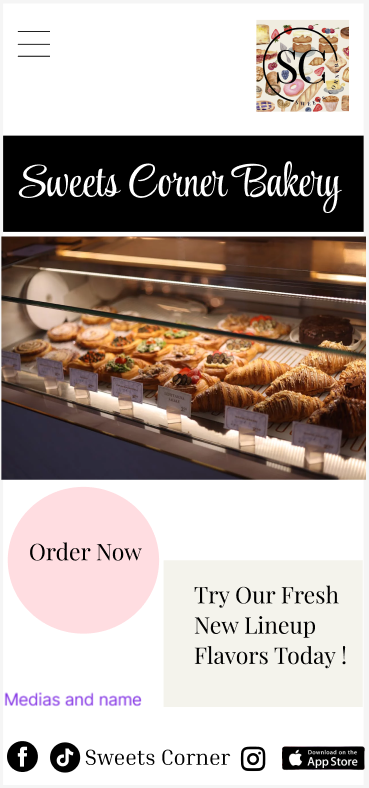
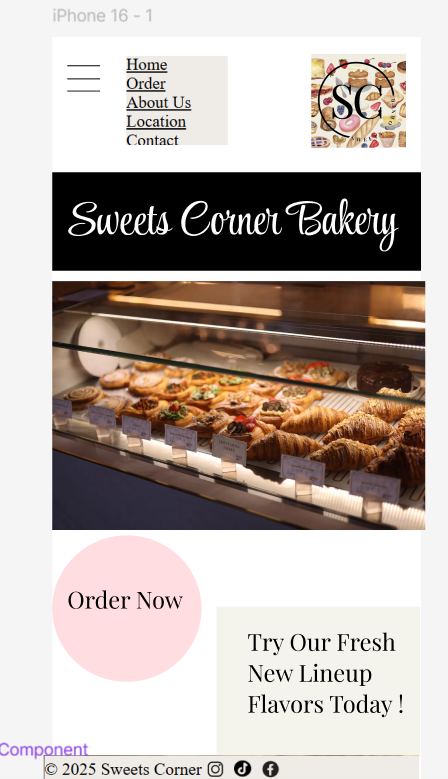
Commit with done pages need editing on them still

diff --git a/styles/pages.css b/styles/pages.css
@@ -24,20 +24,27 @@ color: #000;
 height: 200px;
 width: 300px;
 background-color:  rgb(244, 209, 228);
+border-color: rgb(244, 209, 228);
 margin: auto;
 line-height: 2;
+font-family: "Inria Serif", serif;
+font-weight: 400;
+font-style: bold;
 }
-/* .infobox{
-text-align: center;
+.infobox{
+text-align: left;
 font-size: 1rem;
 color: #000;
 height: 200px;
-width: 300px;
-background-color:  rgb(244, 209, 228);
-margin: auto
-line-height: 2;
-float: right;
-} */
+width: 310px;
+background-color: #ffffff;
+margin: auto;
+line-height: 3rem;
+padding: 2px;
+font-family: "Inria Serif", serif;
+font-weight: 400;
+font-style: normal;
+}
 div{
 font-family: "Inria Serif", serif;
 font-weight: 400;
@@ -88,12 +95,124 @@ padding: 20px;
 line-height:3;
 margin: 3rem;
 }
-span{
+ /* This is the location Page*/
+.locationbox1{
+text-align: center;
+font-size: 2rem;
+color: #000;
+height: 200px;
+width: 300px;
+background-color:  rgb(244, 209, 228);
+margin: auto;
+line-height: 2;
 font-family: "Inria Serif", serif;
 font-weight: 400;
 font-style: normal;
-color: #000;
 }
+.img{
+display:grid;
+margin-left: auto;
+margin-right: auto;
+width: 50%;
+}
+.locationbox2{
+text-align: center;
+font-size: 2rem;
+color: #ffffff;
+height: 200px;
+width: 300px;
+background-color: #000;
+margin: auto;
+line-height: 2;
+font-family: "Inria Serif", serif;
+font-weight: 400;
+font-style: normal;
+}
+/* This is the Contact page */
+.emailcircle{
+width: 300px;
+height: 100px;
+border-radius: 50%;
+background-color: rgb(244, 209, 228);
+text-align: center;
+line-height: 100px;
+margin: 0.5rem;
+font-size: 3rem;
+font-family: "Style Script", cursive;
+font-weight: 400;
+font-style: normal;
+}
+.phonecircle{
+width: 300px;
+height: 100px;
+border-radius: 50%;
+background-color: #fcfcfc;
+text-align: center;
+line-height: 100px;
+margin: 0.5rem;
+font-size: 3rem;
+font-family: "Style Script", cursive;
+font-weight: 400;
+font-style: normal;
+}
+.socialscircle{
+width: 300px;
+height: 100px;
+border-radius: 50%;
+background-color: rgb(244, 209, 228);
+text-align: center;
+line-height: 100px;
+margin: 0.5rem;
+font-size: 3rem;
+font-family: "Style Script", cursive;
+font-weight: 400;
+font-style: normal;
+}
+.emailbox{
+text-align: center;
+font-size: 1rem;
+color: #ffffff;
+height: 70px;
+width: 300px;
+background-color: #000;
+margin: auto;
+line-height: 4rem;
+font-family: "Inria Serif", serif;
+font-weight: 400;
+font-style: normal;
+}
+.phonebox{
+text-align: center;
+font-size: 1rem;
+color: #ffffff;
+height: 70px;
+width: 300px;
+background-color: #000;
+margin: auto;
+line-height: 4rem;
+font-family: "Inria Serif", serif;
+font-weight: 400;
+font-style: normal;
+}
+.socialsbox{
+text-align: center;
+font-size: 1rem;
+color: #ffffff;
+height: 100px;
+width: 315px;
+background-color: #000;
+margin: auto;
+line-height: 3rem;
+font-family: "Inria Serif", serif;
+font-weight: 400;
+font-style: normal;
+}
+span{
+  font-family: "Inria Serif", serif;
+  font-weight: 400;
+  font-style: normal;
+  color: #000;
+  }
 footer {
 display:flex;
 align-items:center;
@@ -114,6 +233,8 @@ float: right;
 width: 4rem;
 height: 4rem;
  }
+
+
 
 
 

diff --git a/pages/Location.html b/pages/Location.html
@@ -17,7 +17,7 @@
   </head>
   <body>
     <body>
-      <img src="../assets/logo.png" alt="logo">
+      <img src="../assets/logo.png" alt="logo"> 
       <nav>
         <button onclick="toggleMenu()"><span>&#9776;</span></button>
         <div class="dropdown" id="menu">
@@ -29,7 +29,20 @@
         </div>
       </nav>
       <h1>Location</h1>
-      <!-- add other content  -->
+    <span class="locationbox1"> We are located in the beautiful town of Camden,Maine.
+      Come visit us on main street in downtown Camden.
+    </span>
+    <!-- google maps image -->
+    <img src="../assets/googlemaps.png" alt="googlemapslogo"> 
+    <span class="locationbox2"> Address: 42 Main St, Camden, ME 04843
+    </span>
+    
+
+    <link
+    href="https://fonts.googleapis.com/css2?family=Playfair+Display:ital,wght@0,400..900;1,400..900&family=Style+Script&display=swap"
+    rel="stylesheet">
+    </span>
+    
       <footer> 
         <span>© 2025 Sweets Corner</span>
         <img src="../assets/instalogo.png" alt="insta logo">
@@ -45,3 +58,4 @@
         }
       </script>
 </html>
+</body>

diff --git a/pages/Contact.html b/pages/Contact.html
@@ -28,8 +28,14 @@
       </div>
     </nav>
     <h1>Contact</h1>
-    <!-- add other content  -->
-     
+    <div class="emailcircle"> Email:</div>
+    <div class="emailbox">SweetsCorner@icloud.com </div>
+    <div class="phonecircle"> Phone:</div>
+    <div class="phonebox">Store#:720-552-3750</div>
+    <div class="socialscircle"> Socials:</div>
+    <div class="socialsbox">Instagram/Facebook: @sweetscorner Tiktok: SweetSCorner!!
+      App Store: Sweets Corner App
+      </div>
     <footer> 
       <span>© 2025 Sweets Corner</span>
       <img src="../assets/instalogo.png" alt="insta logo">

diff --git a/pages/aboutus.html b/pages/aboutus.html
@@ -27,7 +27,10 @@
     </div>
   </nav>
   <h1>About Us</h1>
-  <h2 class="box">It’s 2025 and no one wants another Basic Bakery........... 
+  <h2 class="box"> <b>It’s 2025 and no one wants another Basic Bakery...........</b>
+  </h2>
+  <h2 class="infobox" >We are beating the norm of boring bakery's 
+  by making sure are flavors are unique and are designs stand out.
   </h2>
  
   <footer> 
